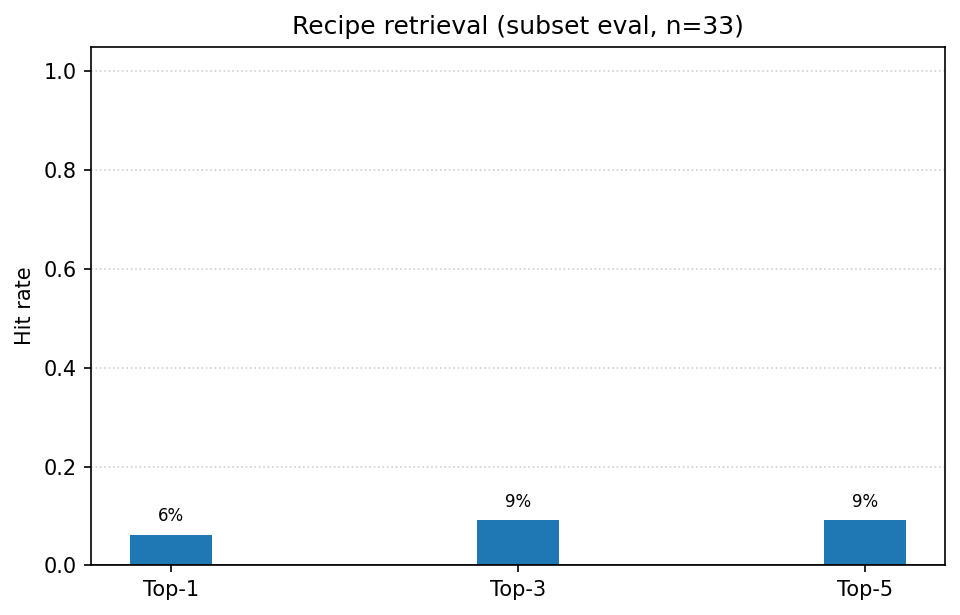
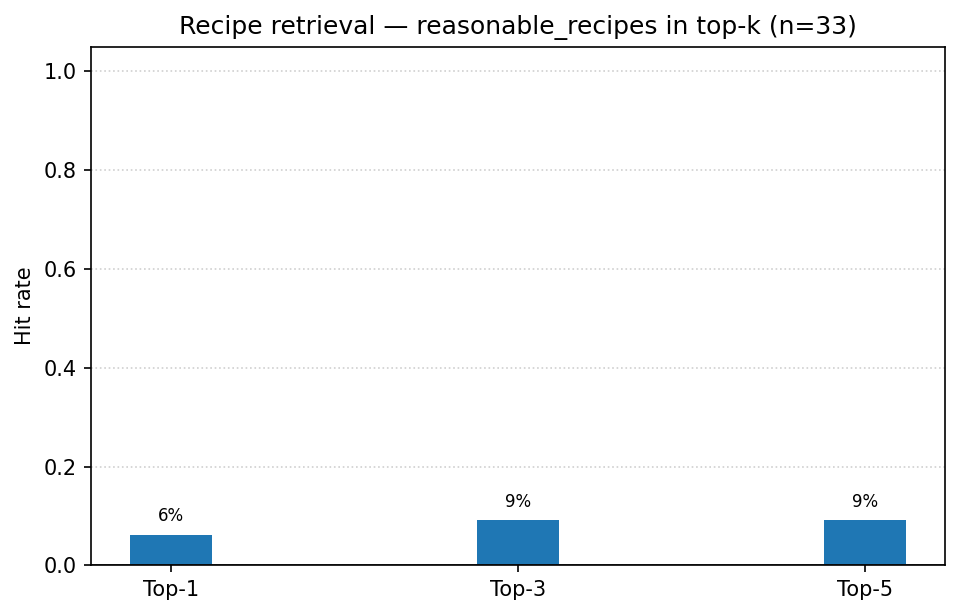
Poster figures: pin to team eval JSON; add detection P/R/F1 chart script

Changed region(s): [[0.1875, 0.0309, 0.9062, 0.0618]]

diff --git a/scripts/plot_poster_detection_prf1.py b/scripts/plot_poster_detection_prf1.py
@@ -1,0 +1,71 @@
+#!/usr/bin/env python3
+"""
+Plot mean detection precision / recall / F1 from an eval_e2e*.json summary.
+
+Uses the same JSON as the top-k poster figure so all numbers stay consistent
+with one evaluation run (no recompute).
+
+Usage:
+    python3 scripts/plot_poster_detection_prf1.py --json runs/e2e_eval/e2e_eval_20260429T152250Z.json
+"""
+
+from __future__ import annotations
+
+import argparse
+import json
+from pathlib import Path
+
+import matplotlib
+
+matplotlib.use("Agg")
+import matplotlib.pyplot as plt  # noqa: E402
+
+BASE_DIR = Path(__file__).resolve().parent.parent
+
+
+def main() -> None:
+    p = argparse.ArgumentParser()
+    p.add_argument("--json", type=Path, required=True, help="E2E eval JSON (eval_e2e.py output).")
+    p.add_argument(
+        "--out",
+        type=Path,
+        default=BASE_DIR / "figures" / "poster_detection_prf1.png",
+    )
+    p.add_argument("--title", default="Detection vs labels (mean over eval set)")
+    args = p.parse_args()
+
+    path = args.json.resolve()
+    with path.open(encoding="utf-8") as f:
+        data = json.load(f)
+    agg = data["aggregate"]
+    pr = float(agg["mean_precision"])
+    rc = float(agg["mean_recall"])
+    f1 = float(agg["mean_f1"])
+    n = int(agg["n_images"])
+
+    fig, ax = plt.subplots(figsize=(5.0, 3.8), dpi=150)
+    labels = ("Precision", "Recall", "F1")
+    vals = (pr, rc, f1)
+    colors = ("#2c5282", "#2f855a", "#744210")
+    bars = ax.bar(labels, vals, color=colors, width=0.55)
+    for bar, v in zip(bars, vals):
+        ax.text(
+            bar.get_x() + bar.get_width() / 2,
+            min(v + 0.03, 0.98),
+            f"{v:.3f}",
+            ha="center",
+            va="bottom",
+            fontsize=10,
+        )
+    ax.set_ylim(0, 1.05)
+    ax.set_ylabel("Score")
+    ax.set_title(f"{args.title} (n={n})")
+    ax.grid(axis="y", linestyle=":", alpha=0.6)
+    fig.tight_layout()
+    args.out.parent.mkdir(parents=True, exist_ok=True)
+    fig.savefig(args.out, bbox_inches="tight")
+    print(f"Wrote {args.out} (from {path.name})")
+
+
+if __name__ == "__main__":
+    main()

diff --git a/Martin-work-done.md b/Martin-work-done.md
@@ -1,6 +1,6 @@
 # My retrieval & ranking work — status and deliverables
 
-**Last updated:** 2026-05-04 (UTC, post-merge poster figure + YOLO path fix)  
+**Last updated:** 2026-05-04 (UTC, poster figures pinned to team eval JSON + companion detection chart)  
 **Who I am on this project:** Martin (Recipe Retrieval & Ranking)
 
 ---
@@ -33,7 +33,7 @@
 ## What changed since last update
 
 - Merged latest `main` (team moved YOLO weights under `yolo/`); `eval_e2e.py` now resolves `yolo/.../best.pt` first, then legacy `runs/...`.
-- Added `scripts/plot_poster_topk.py` and default output `figures/poster_topk_retrieval.png` for the poster’s top-k retrieval bar chart (reads latest `runs/e2e_eval/e2e_eval_*.json` unless `--json` is passed).
+- Added `scripts/plot_poster_topk.py` and `scripts/plot_poster_detection_prf1.py`; poster PNGs should be built with an explicit `--json` so they match the metrics already on the board (`e2e_eval_20260429T152250Z.json` unless the team picks another artifact).
 - Rehauled this document for team-facing hybrid format (status first, technical evidence second).
 - Completed Sprint A hardening (input validation, deterministic ordering, edge-case tests).
 - Completed Sprint B evaluation pass with expanded case set.
@@ -74,6 +74,19 @@ All strategies are fully implemented and working as expected on current sample e
   - `confidence_weighted`: recall@1=1.0, recall@3=1.0, recall@5=1.0, mrr=1.0
   - `penalty_aware`: recall@1=1.0, recall@3=1.0, recall@5=1.0, mrr=1.0
 - **Interpretation:** retrieval plumbing remains stable on curated sample data.
+
+### Poster figures (pinned to one eval JSON — no accidental number drift)
+
+Use the **same** `e2e_eval_*.json` that matches whatever the poster already prints. The repo’s figures are currently regenerated from the **tuned overlap** run already cited in this doc (so top-k bars = **6% / 9.1% / 9.1%** top-1/3/5, same run as mean P/R/F1 **0.317 / 0.072 / 0.108**):
+
+- **Top-k retrieval:** `figures/poster_topk_retrieval.png`  
+  `python3 scripts/plot_poster_topk.py --json runs/e2e_eval/e2e_eval_20260429T152250Z.json --out figures/poster_topk_retrieval.png`
+- **Detection snapshot (same run):** `figures/poster_detection_prf1.png`  
+  `python3 scripts/plot_poster_detection_prf1.py --json runs/e2e_eval/e2e_eval_20260429T152250Z.json`
+
+If the printed poster uses a **different** JSON timestamp, swap only the `--json` path; do not re-run eval unless the team agrees to refresh all printed metrics.
+
+**Runtime (rough):** `eval_e2e.py` (YOLO + retrieval) on ~33 images is typically **on the order of seconds** on a normal laptop GPU/Metal. `eval_e2e_dino.py` (TokenCut + DINO + LoRA per image) is **much slower** (often **many minutes** for the full set); skip it for poster unless the board explicitly shows DINO E2E numbers and you have a saved `dino_e2e_eval_*.json` to plot from.
 
 ### End-to-end benchmark on team eval set (new, more realistic)
 - **Baseline run command:** `python3 eval_e2e.py --labels eval_data/labels.jsonl --out runs/e2e_eval`
